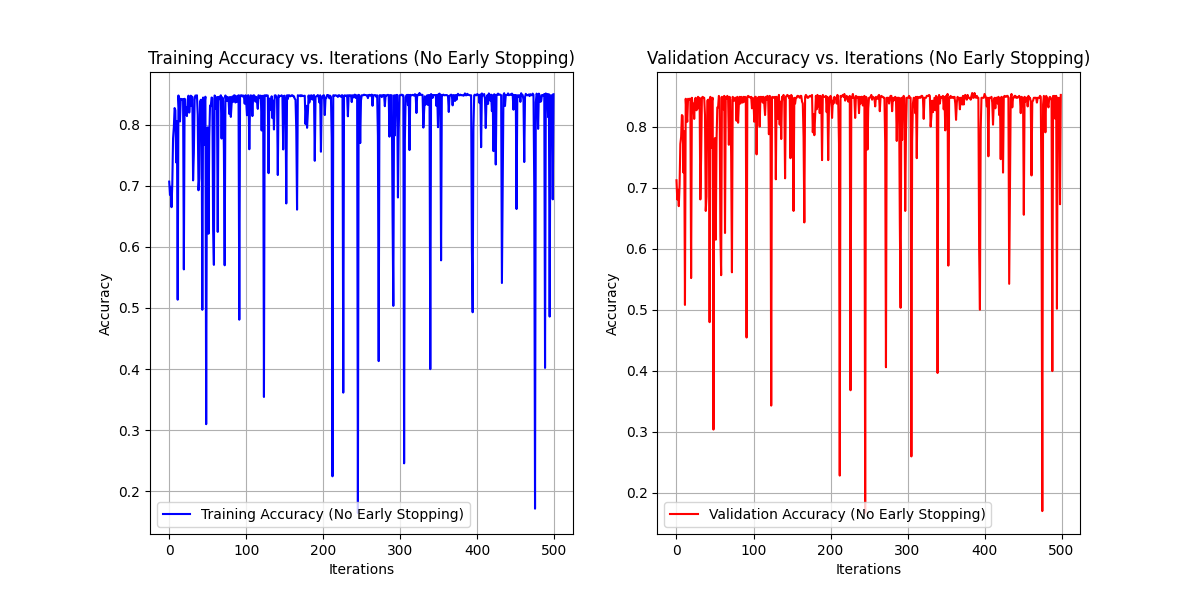
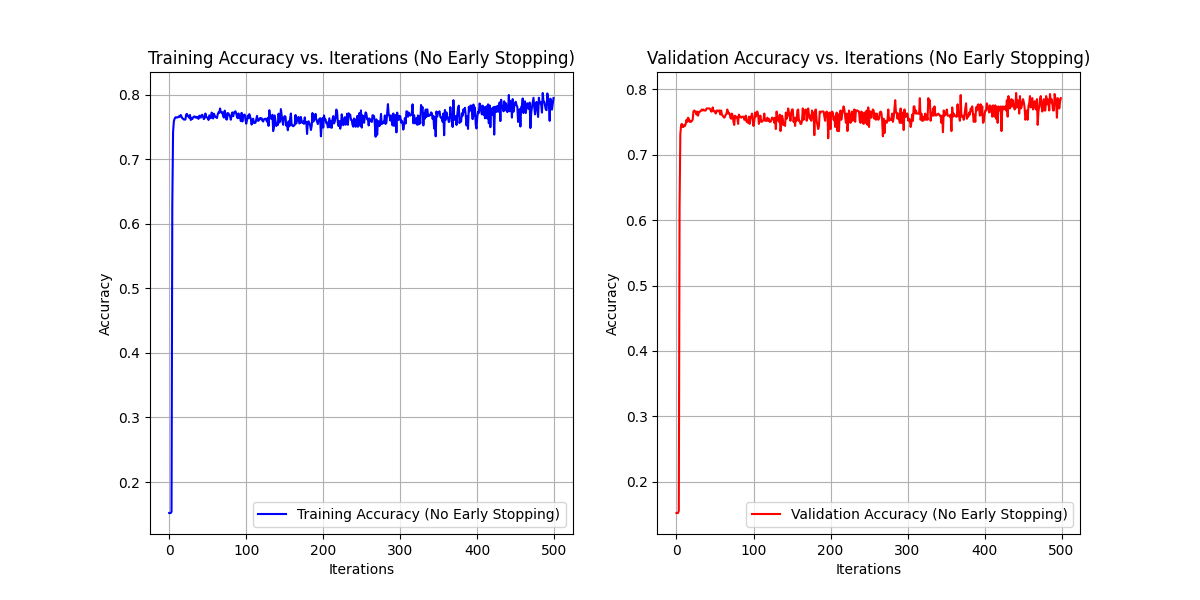
F done ig

diff --git a/A1/Q2/F.py b/A1/Q2/F.py
@@ -39,25 +39,17 @@ def regularized_loss(y, y_pred, weights, l1_ratio=0.0, l2_ratio=0.0):
     l2_penalty = l2_ratio * np.sum(np.square(weights))
     return cross_entropy + l1_penalty + l2_penalty
 
-# Early Stopping mechanism
-class EarlyStopping:
-    def __init__(self, patience=10, delta=0):
-        self.patience = patience
-        self.delta = delta
-        self.best_loss = None
-        self.counter = 0
-        self.early_stop = False
+# Early Stopping
+def check_early_stopping(val_loss, best_loss, patience_counter, patience, delta=0):
+    if best_loss is None or val_loss < best_loss - delta:
+        return val_loss, 0, False
+    else:
+        patience_counter += 1
+        if patience_counter >= patience:
+            return best_loss, patience_counter, True
+        return best_loss, patience_counter, False
 
-    def __call__(self, val_loss):
-        if self.best_loss is None or val_loss < self.best_loss - self.delta:
-            self.best_loss = val_loss
-            self.counter = 0
-        else:
-            self.counter += 1
-            if self.counter >= self.patience:
-                self.early_stop = True
-
-# Mini-Batch Gradient Descent with L1 and L2 Regularization
+# Mini-Batch Gradient Descent with L1 and L2 Regularization with Early Stopping
 def mini_batch_gradient_descent_early_stopping(X, y, X_val, y_val, lr=0.01, iterations=500, batch_size=32, l1_ratio=0.0, l2_ratio=0.0, early_stopping=True, patience=10):
     weights = np.random.rand(X.shape[1])
     bias = 0
@@ -68,7 +60,8 @@ def mini_batch_gradient_descent_early_stopping(X, y, X_val, y_val, lr=0.01, iter
     
     m = len(y)
     num_batches = m // batch_size
-    es = EarlyStopping(patience=patience) if early_stopping else None
+    best_loss = None
+    patience_counter = 0
     
     for i in tqdm(range(iterations), desc=f"MBGD (Batch Size {batch_size}) Iterations"):
         indices = np.arange(m)
@@ -100,20 +93,17 @@ def mini_batch_gradient_descent_early_stopping(X, y, X_val, y_val, lr=0.01, iter
         val_accuracy = calculate_accuracy(X_val, y_val, weights, bias)
         train_accuracies.append(train_accuracy)
         val_accuracies.append(val_accuracy)
-
+        
         if early_stopping:
-            es(val_loss)
-            if es.early_stop:
+            best_loss, patience_counter, stop = check_early_stopping(val_loss, best_loss, patience_counter, patience)
+            if stop:
                 print("Early stopping triggered.")
                 break
     
     return weights, bias, train_losses, val_losses, train_accuracies, val_accuracies
 
-weights_es, bias_es, train_losses_es, val_losses_es, train_acc_es, val_acc_es = mini_batch_gradient_descent_early_stopping(
-    X_train, y_train, X_val, y_val, lr=0.0001, iterations=500, batch_size=8, l1_ratio=0.0, l2_ratio=0.0, early_stopping=True, patience=20)
-
-weights_no_es, bias_no_es, train_losses_no_es, val_losses_no_es, train_acc_no_es, val_acc_no_es = mini_batch_gradient_descent_early_stopping(
-    X_train, y_train, X_val, y_val, lr=0.0001, iterations=500, batch_size=8, l1_ratio=0.0, l2_ratio=0.0, early_stopping=False)
+weights_es, bias_es, train_losses_es, val_losses_es, train_acc_es, val_acc_es = mini_batch_gradient_descent_early_stopping(X_train, y_train, X_val, y_val, lr=0.0001, iterations=500, batch_size=256, l1_ratio=0.0, l2_ratio=0.0, early_stopping=True, patience=20)
+weights_no_es, bias_no_es, train_losses_no_es, val_losses_no_es, train_acc_no_es, val_acc_no_es = mini_batch_gradient_descent_early_stopping(X_train, y_train, X_val, y_val, lr=0.0001, iterations=500, batch_size=256, l1_ratio=0.0, l2_ratio=0.0, early_stopping=False)
 
 def plot_figure(train_metric, val_metric, metric_name, label, filename):
     plt.figure(figsize=(12, 6))
